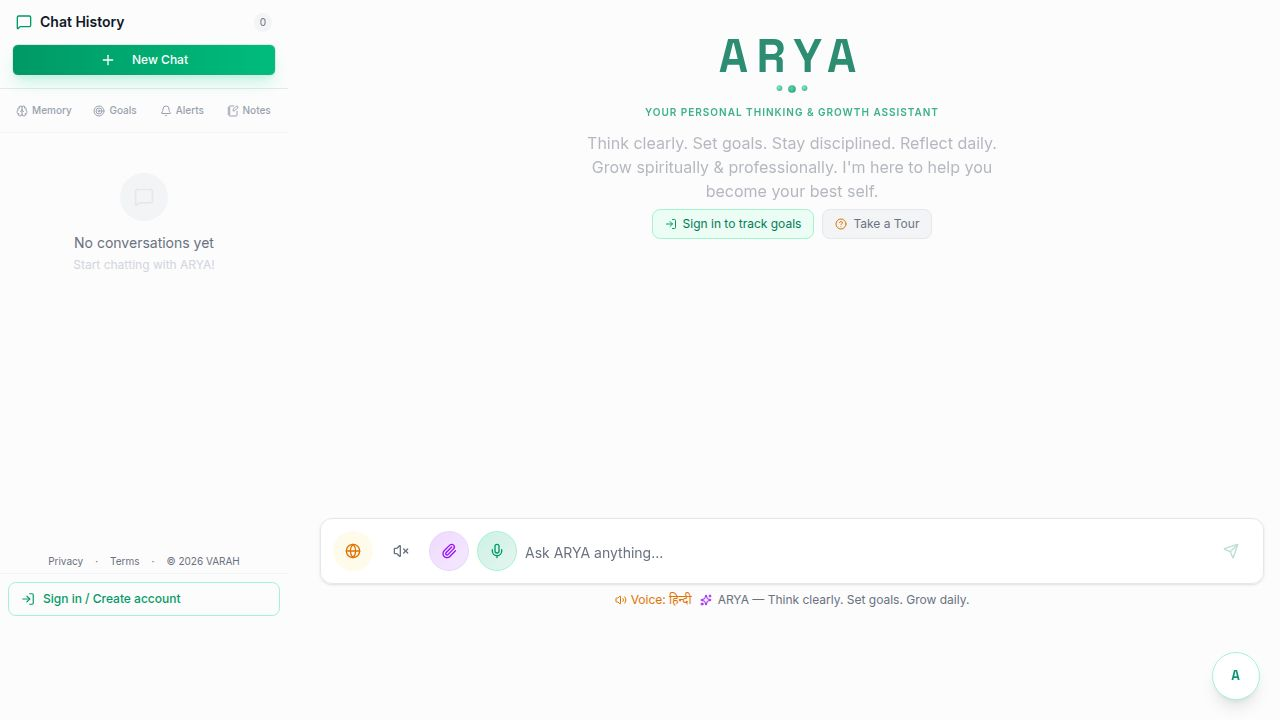
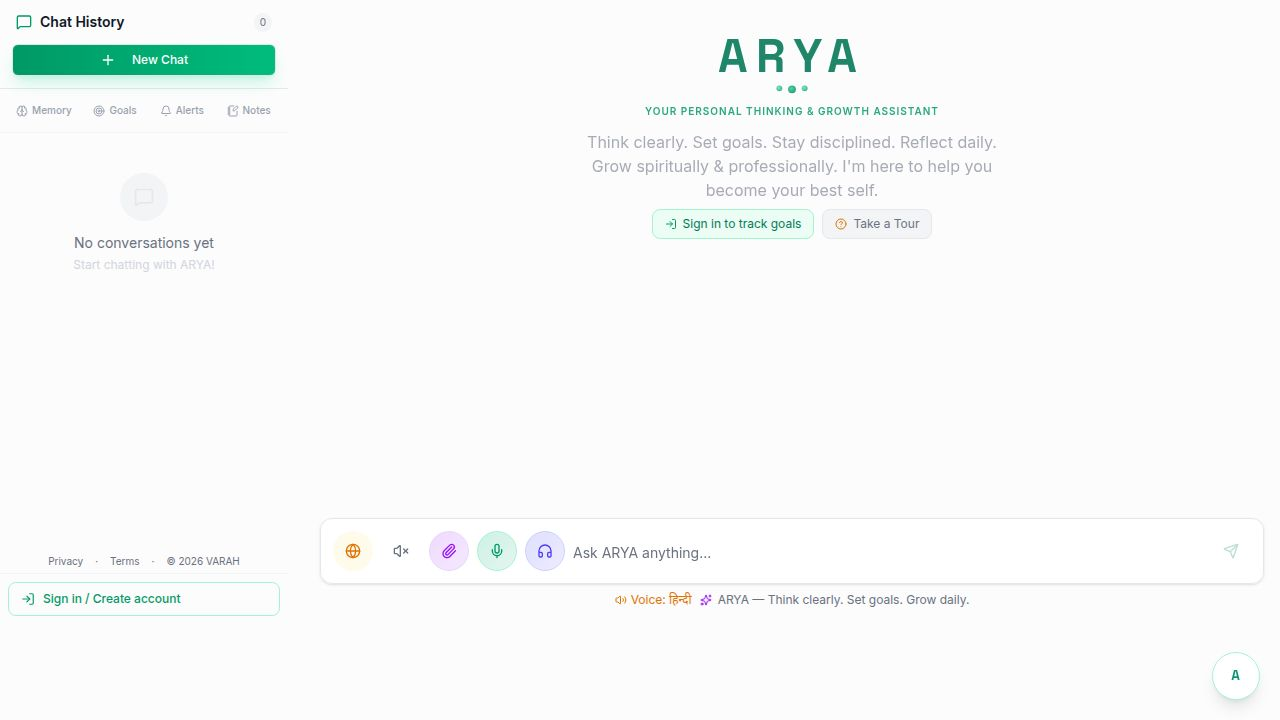
Improve Vedic Lens briefing display and error handling
Fix blank screen issue in Vedic Lens by adding a fallback UI and improve backend error handling for database queries.

Replit-Commit-Author: Agent
Replit-Commit-Session-Id: 7b145150-db39-47d4-af7e-e2ff8b1b403d
Replit-Commit-Checkpoint-Type: full_checkpoint
Replit-Commit-Event-Id: 3cd9db39-5c66-4a4d-82c0-246d7b071663
Replit-Commit-Screenshot-Url: https://storage.googleapis.com/screenshot-production-us-central1/9228cbc9-64ab-41d4-8aa4-89fc651b90ae/7b145150-db39-47d4-af7e-e2ff8b1b403d/jd3wl4c
Replit-Helium-Checkpoint-Created: true

diff --git a/server/arya/vedic-lens.ts b/server/arya/vedic-lens.ts
@@ -108,14 +108,21 @@ export interface VedicBriefing {
 }
 
 export async function generateVedicBriefing(userId: string): Promise<VedicBriefing> {
-  const [user] = await db.select({
-    name: aryaUsers.name,
-    rashi: aryaUsers.rashi,
-    nakshatra: aryaUsers.nakshatra,
-    dashaLord: aryaUsers.dashaLord,
-    dashaYearsLeft: aryaUsers.dashaYearsLeft,
-    vedicLensEnabled: aryaUsers.vedicLensEnabled,
-  }).from(aryaUsers).where(eq(aryaUsers.id, userId)).limit(1);
+  let user: { name: string; rashi: string | null; nakshatra: string | null; dashaLord: string | null; dashaYearsLeft: string | null; vedicLensEnabled: boolean } | null = null;
+  try {
+    const rows = await db.select({
+      name: aryaUsers.name,
+      rashi: aryaUsers.rashi,
+      nakshatra: aryaUsers.nakshatra,
+      dashaLord: aryaUsers.dashaLord,
+      dashaYearsLeft: aryaUsers.dashaYearsLeft,
+      vedicLensEnabled: aryaUsers.vedicLensEnabled,
+    }).from(aryaUsers).where(eq(aryaUsers.id, userId)).limit(1);
+    user = rows[0] || null;
+  } catch (err: any) {
+    console.error("[VedicBriefing] User query failed:", err?.message);
+    return sampleBriefing("friend");
+  }
 
   if (!user) return sampleBriefing("friend");
 
@@ -127,9 +134,14 @@ export async function generateVedicBriefing(userId: string): Promise<VedicBriefi
     return sampleBriefing(user.name, rashi || undefined);
   }
 
-  const activeGoals = await db.select({ title: aryaGoals.title }).from(aryaGoals)
-    .where(and(eq(aryaGoals.userId, userId), eq(aryaGoals.isActive, true))).limit(3);
-  const goalsTitles = activeGoals.map(g => g.title).join("; ") || "none specified";
+  let goalsTitles = "none specified";
+  try {
+    const activeGoals = await db.select({ title: aryaGoals.title }).from(aryaGoals)
+      .where(and(eq(aryaGoals.userId, userId), eq(aryaGoals.isActive, true))).limit(3);
+    goalsTitles = activeGoals.map(g => g.title).join("; ") || "none specified";
+  } catch (err: any) {
+    console.error("[VedicBriefing] Goals query failed:", err?.message);
+  }
 
   const today = new Date();
   const dayName = ["Sunday","Monday","Tuesday","Wednesday","Thursday","Friday","Saturday"][today.getDay()];

diff --git a/client/src/pages/VedicLensPage.tsx b/client/src/pages/VedicLensPage.tsx
@@ -355,7 +355,14 @@ function BriefingScreen({ briefing, loading, onHome, selectedRashi }: { briefing
   );
 
   const b = briefing;
-  if (!b) return null;
+  if (!b) return (
+    <div style={{ minHeight: "100vh", display: "flex", flexDirection: "column", alignItems: "center", justifyContent: "center", gap: 16, padding: 24 }}>
+      <div style={{ fontSize: 40 }}>🌙</div>
+      <div style={{ fontFamily: serif, fontSize: 18, color: C.text, textAlign: "center" }}>The stars are quiet right now</div>
+      <div style={{ fontSize: 13, color: C.textDim, textAlign: "center", maxWidth: 260 }}>We couldn't fetch today's briefing. Please check your connection and try again.</div>
+      <button onClick={onHome} style={{ marginTop: 8, padding: "10px 24px", borderRadius: 24, border: `1px solid ${C.border2}`, background: "transparent", color: C.textDim, fontSize: 13, cursor: "pointer" }}>← Back</button>
+    </div>
+  );
 
   const activeGoals = (goalsData || []).filter((g: any) => g.isActive).slice(0, 4);
 

diff --git a/server/routes.ts b/server/routes.ts
@@ -1608,6 +1608,7 @@ export async function registerRoutes(
       const briefing = await generateVedicBriefing(userId);
       res.json(briefing);
     } catch (error: any) {
+      console.error("[VedicBriefing] Route error:", error?.message, error?.stack?.split("\n")[1]);
       res.status(500).json({ error: "Failed to generate Vedic briefing" });
     }
   });